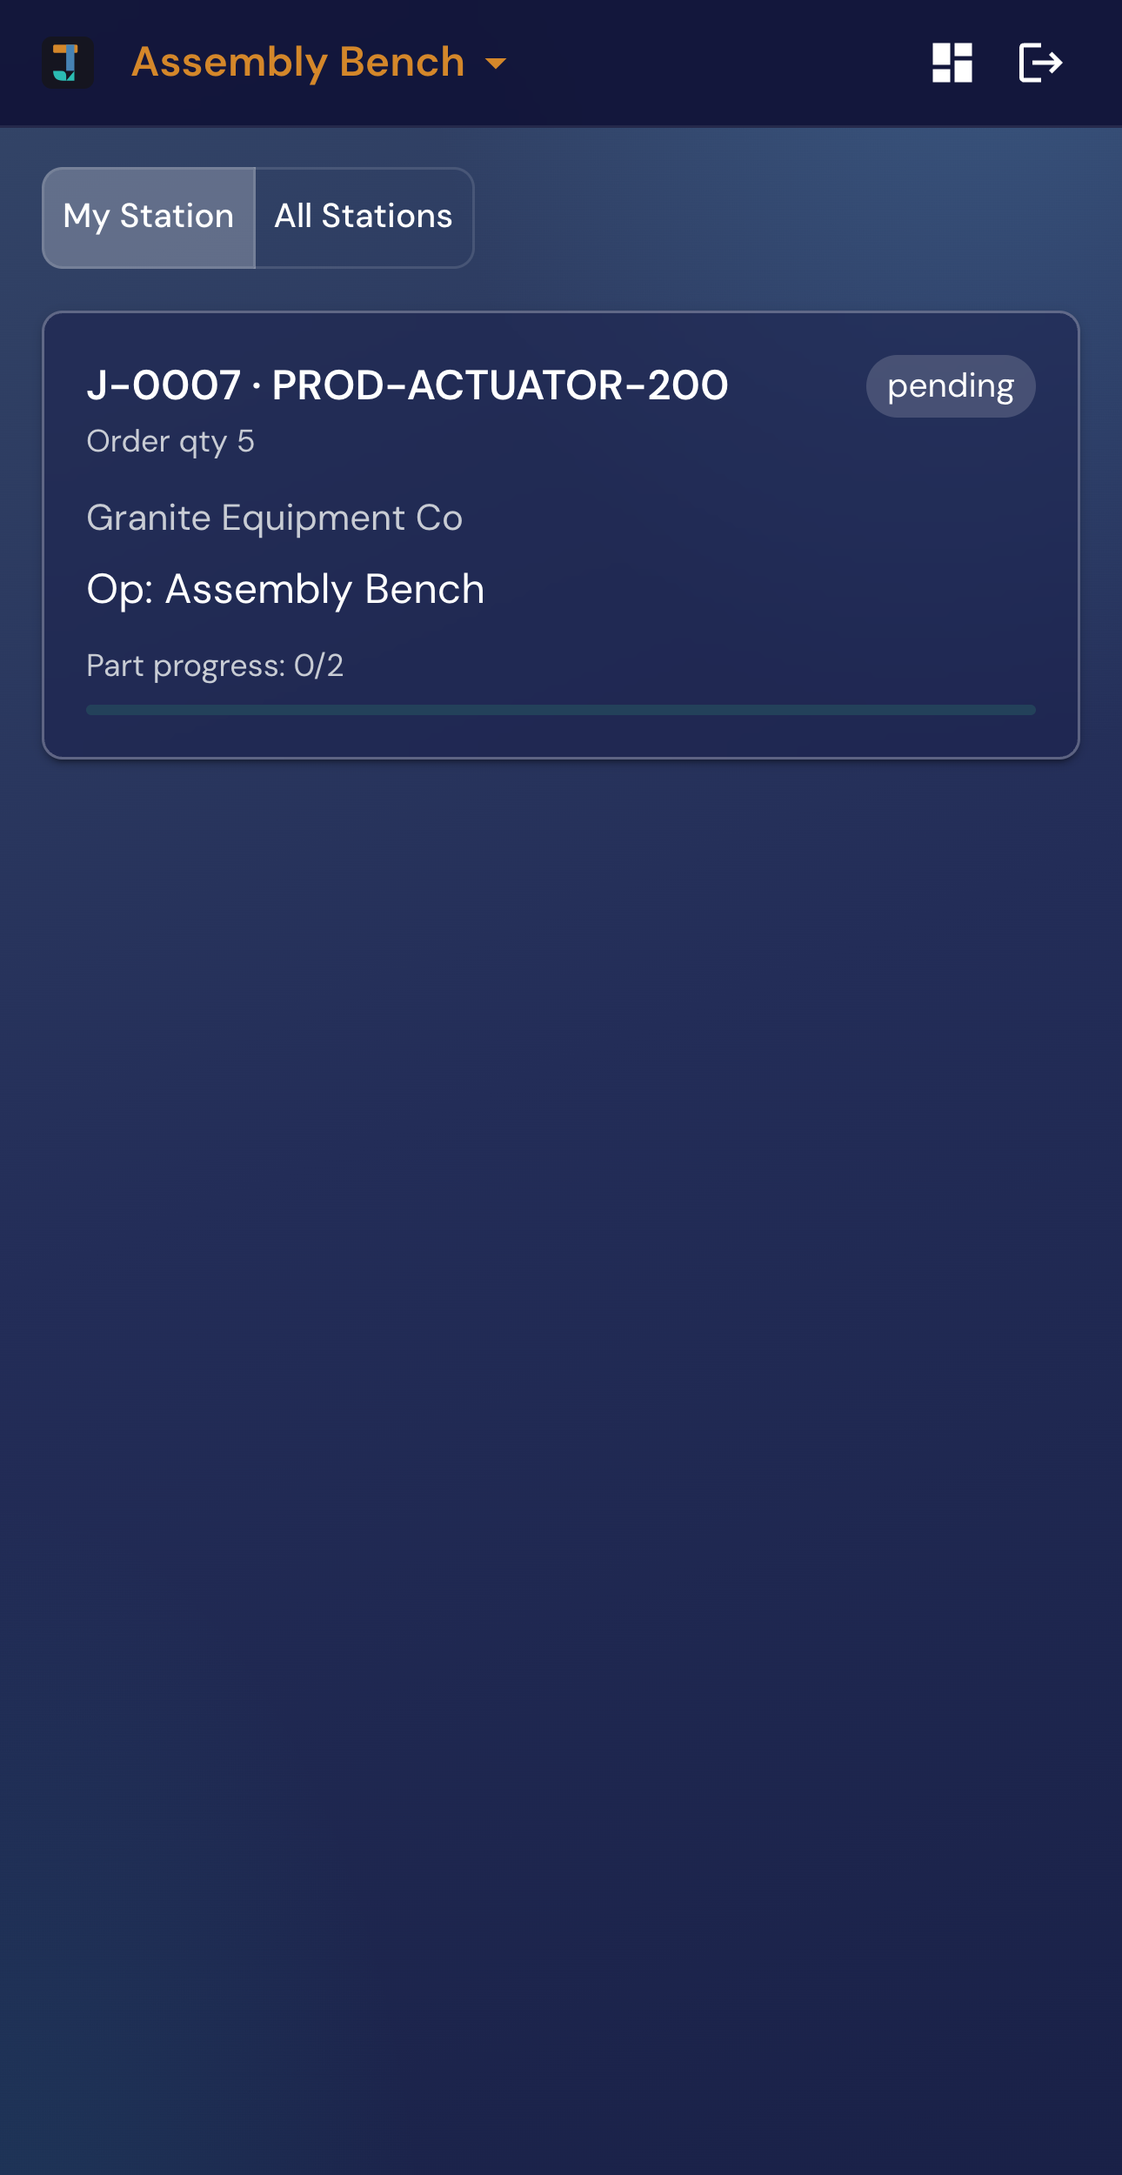
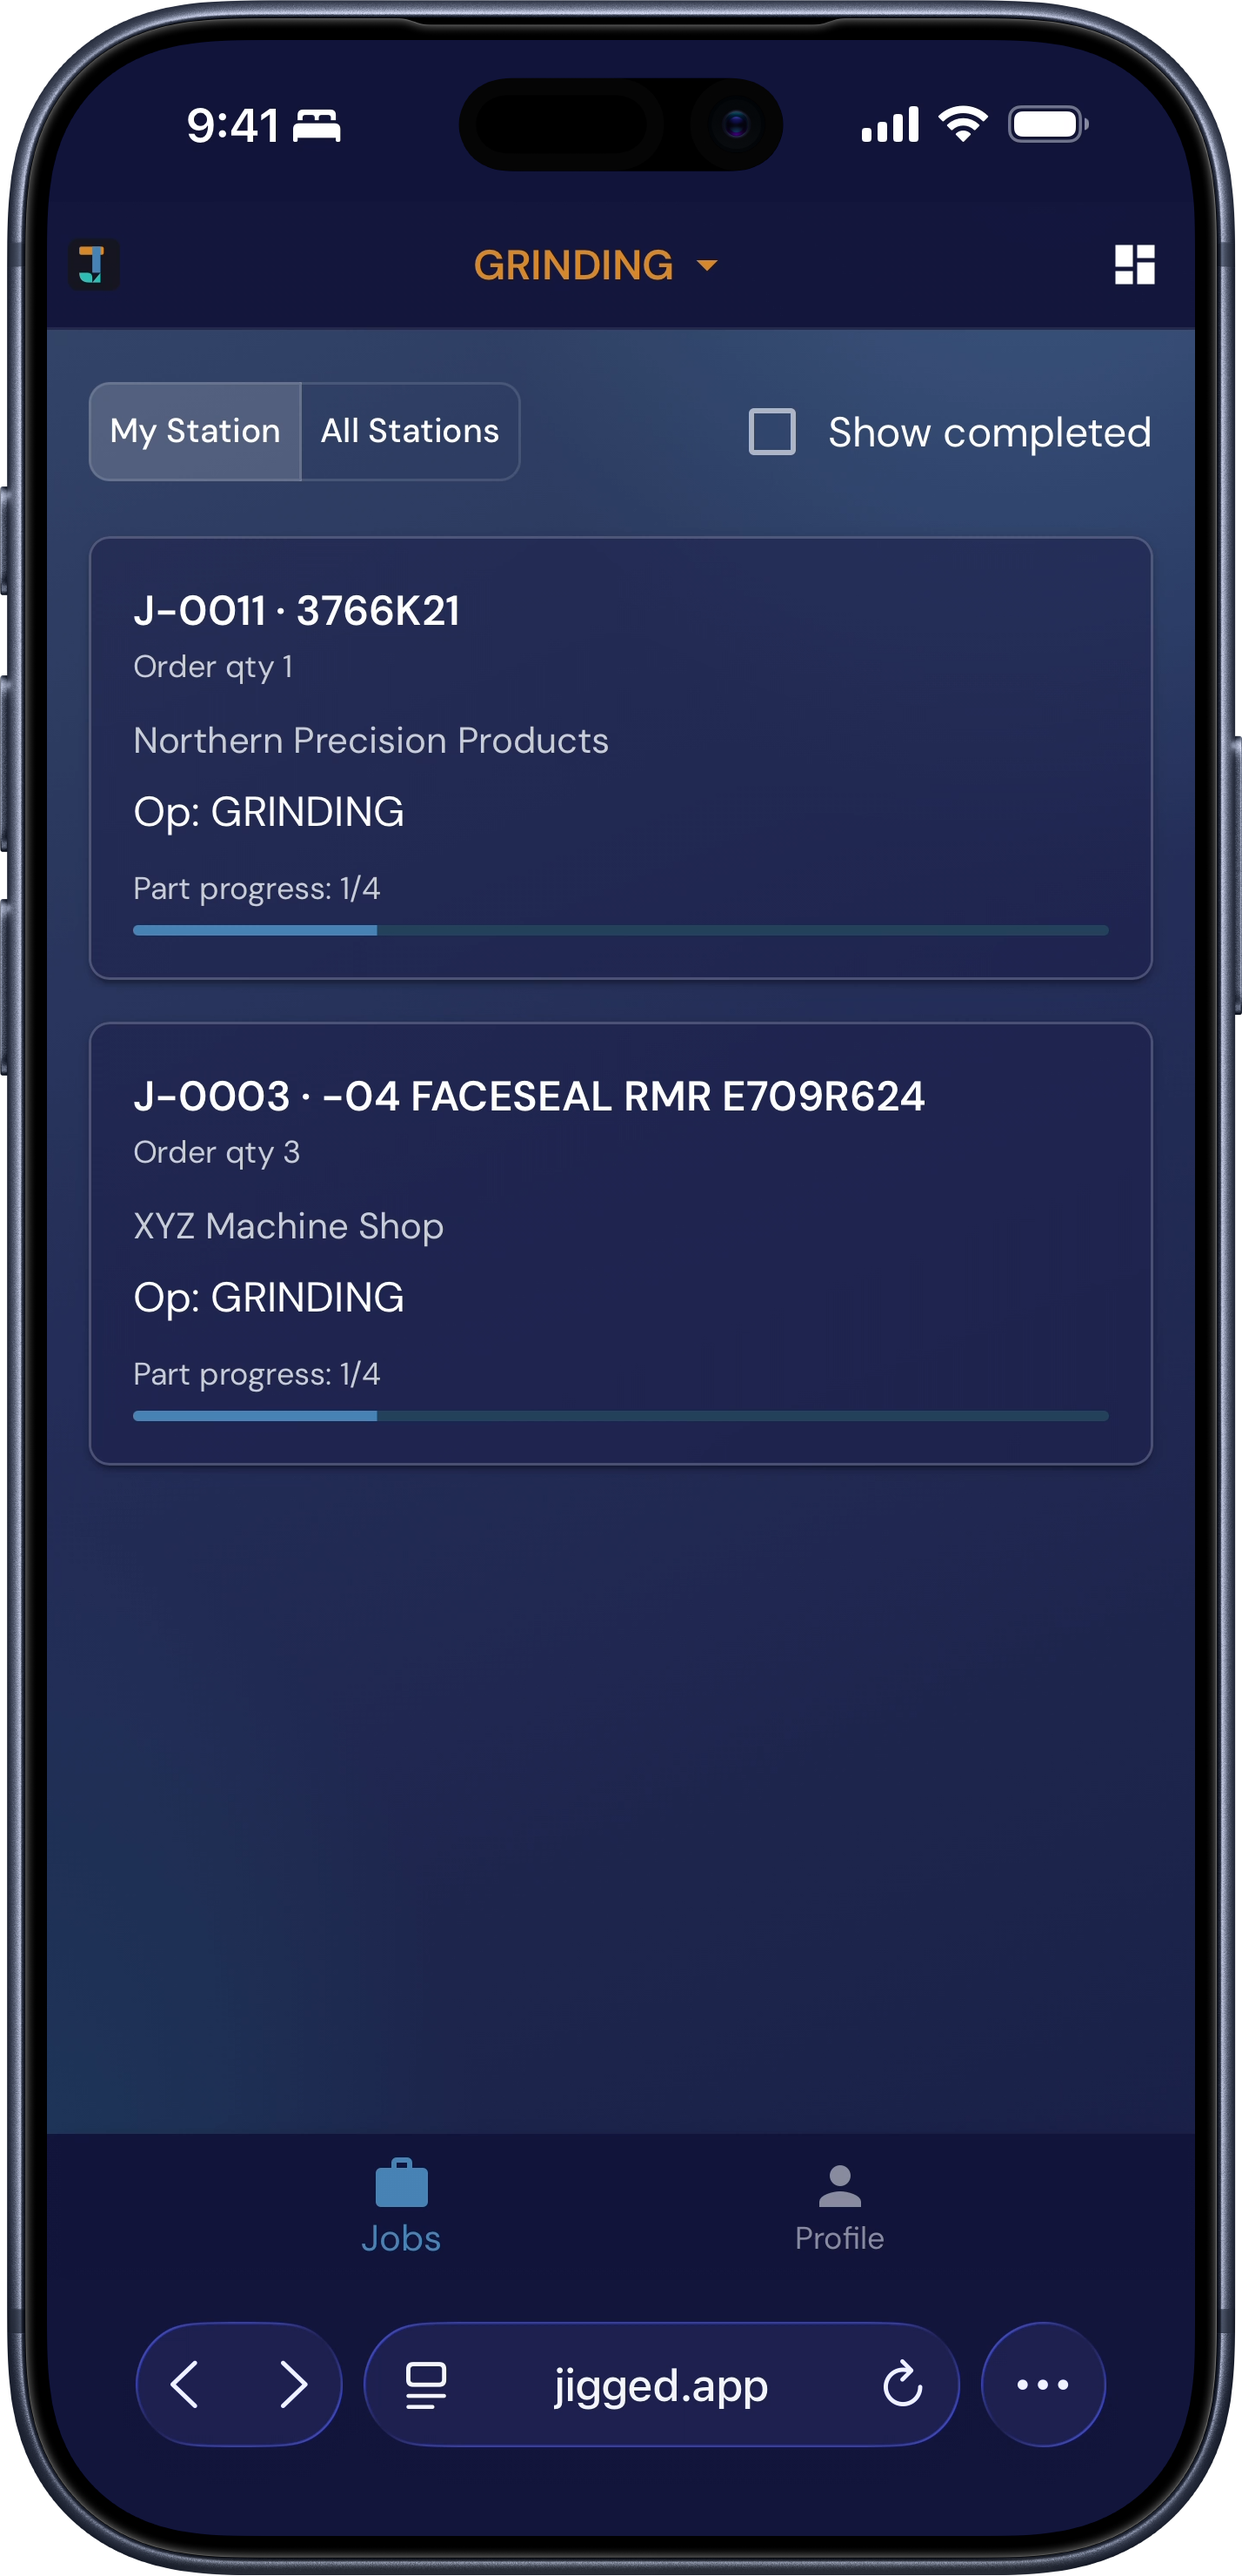
refactor(marketing): tighten pains, real phone mockups, fix knowledge point
- Tighten the "Sound familiar?" pains and closer — same impact, fewer words.
- Fix the third pain to the real gap: your systems log the numbers, but how the
  parts sit in the fixture and the finesse of the setup never get written down —
  existing tools capture some of what happened, not the know-how in the operator's
  head.
- Replace the CSS DeviceFrame with the supplied photorealistic iPhone mockups on
  the shop-floor (2 phones) and knowledge-capture (1 phone) sections. New PhoneShot
  component renders a bare device PNG with a brand glow + silhouette drop-shadow;
  DeviceFrame stays for wrapping raw screenshots.

diff --git a/lib/constants/marketing.ts b/lib/constants/marketing.ts
@@ -34,13 +34,13 @@ export const PAIN = {
   eyebrow: 'The daily reality',
   heading: 'Sound familiar?',
   points: [
-    'The know-how that makes your hardest parts run right lives in a few people’s heads — and walks out the door when they retire.',
-    'Quoting, the floor, shipping, invoicing — each lives in a different tool, and none of them talk.',
-    'A job comes back around and the setup, the speeds, the fix from last time are gone. You solve it from scratch again.',
-    'You’ve stitched together an ERP, a stack of spreadsheets, and homegrown tools — and it still doesn’t fit how your shop runs.',
+    'Your best setups live in one machinist’s head — and walk out the door the day he retires.',
+    'Quote, floor, shipping, invoicing — a different tool for each, and none of them talk.',
+    'Your systems log the numbers. How the parts sit in the fixture, the finesse in the setup — that never gets written down.',
+    'An ERP, a stack of spreadsheets, a few homegrown tools — and none of it fits how you run.',
   ],
   closer:
-    'Shop owners keep telling us the same thing: they’re running the whole operation across an ERP, a pile of spreadsheets, and homegrown tools nobody else could use. We’re building Jigged to do the whole job in one place — tailored to how a precision shop actually works. Everything they need, nothing they don’t.',
+    'Owners run the whole shop across an ERP, spreadsheets, and homegrown tools nobody else could use. We’re building Jigged to do it all in one place — everything they need, nothing they don’t.',
 };
 
 export type Feature = {

diff --git a/components/marketing/PhoneShot.tsx b/components/marketing/PhoneShot.tsx
@@ -1,0 +1,53 @@
+'use client';
+
+import Box from '@mui/material/Box';
+
+/**
+ * Renders a supplied device-mockup PNG — a real phone (bezel + status bar already baked in)
+ * on a transparent background — with a soft brand glow behind it and a silhouette drop-shadow
+ * so it floats on the dark page. No CSS phone frame (that's DeviceFrame, for bare screenshots);
+ * use PhoneShot when the image already IS a phone. drop-shadow (not box-shadow) so the shadow
+ * follows the phone's rounded outline rather than a rectangle.
+ */
+interface PhoneShotProps {
+  src: string;
+  alt: string;
+  maxWidth?: number;
+  glow?: string;
+}
+
+export default function PhoneShot({
+  src,
+  alt,
+  maxWidth = 300,
+  glow = 'rgba(43, 188, 179, 0.20)',
+}: PhoneShotProps) {
+  return (
+    <Box sx={{ position: 'relative', width: '100%', maxWidth, mx: 'auto' }}>
+      <Box
+        aria-hidden
+        sx={{
+          position: 'absolute',
+          inset: '8% 2% 4% 2%',
+          background: `radial-gradient(closest-side, ${glow}, transparent)`,
+          filter: 'blur(56px)',
+          zIndex: 0,
+        }}
+      />
+      <Box
+        component="img"
+        src={src}
+        alt={alt}
+        loading="lazy"
+        sx={{
+          position: 'relative',
+          zIndex: 1,
+          display: 'block',
+          width: '100%',
+          height: 'auto',
+          filter: 'drop-shadow(0 32px 60px rgba(0, 0, 0, 0.62))',
+        }}
+      />
+    </Box>
+  );
+}

diff --git a/components/marketing/ShopFloorShowcase.tsx b/components/marketing/ShopFloorShowcase.tsx
@@ -5,7 +5,7 @@ import Typography from '@mui/material/Typography';
 import CheckRoundedIcon from '@mui/icons-material/CheckRounded';
 import Section from './Section';
 import Reveal from './Reveal';
-import DeviceFrame from './DeviceFrame';
+import PhoneShot from './PhoneShot';
 import { SHOP_FLOOR } from '@/lib/constants/marketing';
 import { eyebrowSx, EYEBROW_COLOR, DISPLAY_FONT } from './marketingStyles';
 
@@ -119,17 +119,17 @@ export default function ShopFloorShowcase() {
               gap: { xs: 1.5, md: 2.5 },
             }}
           >
-            <DeviceFrame
+            <PhoneShot
               src={SHOP_FLOOR.images[0]}
               alt={SHOP_FLOOR.alt}
-              maxWidth={232}
+              maxWidth={244}
               glow="rgba(70, 130, 180, 0.22)"
             />
             <Box sx={{ mt: { xs: 3, md: 7 } }}>
-              <DeviceFrame
+              <PhoneShot
                 src={SHOP_FLOOR.images[1]}
                 alt={SHOP_FLOOR.alt}
-                maxWidth={232}
+                maxWidth={244}
                 glow="rgba(43, 188, 179, 0.20)"
               />
             </Box>

diff --git a/components/marketing/KnowledgeCapture.tsx b/components/marketing/KnowledgeCapture.tsx
@@ -4,7 +4,7 @@ import Box from '@mui/material/Box';
 import Typography from '@mui/material/Typography';
 import Section from './Section';
 import Reveal from './Reveal';
-import DeviceFrame from './DeviceFrame';
+import PhoneShot from './PhoneShot';
 import { KNOWLEDGE } from '@/lib/constants/marketing';
 import { eyebrowSx, DISPLAY_FONT, EYEBROW_COLOR } from './marketingStyles';
 
@@ -72,7 +72,7 @@ export default function KnowledgeCapture() {
           distance={40}
           sx={{ flex: { md: '1 1 auto' }, width: '100%', display: 'flex', justifyContent: 'center' }}
         >
-          <DeviceFrame src={KNOWLEDGE.image} alt={KNOWLEDGE.alt} maxWidth={340} />
+          <PhoneShot src={KNOWLEDGE.image} alt={KNOWLEDGE.alt} maxWidth={322} />
         </Reveal>
       </Box>
     </Section>
